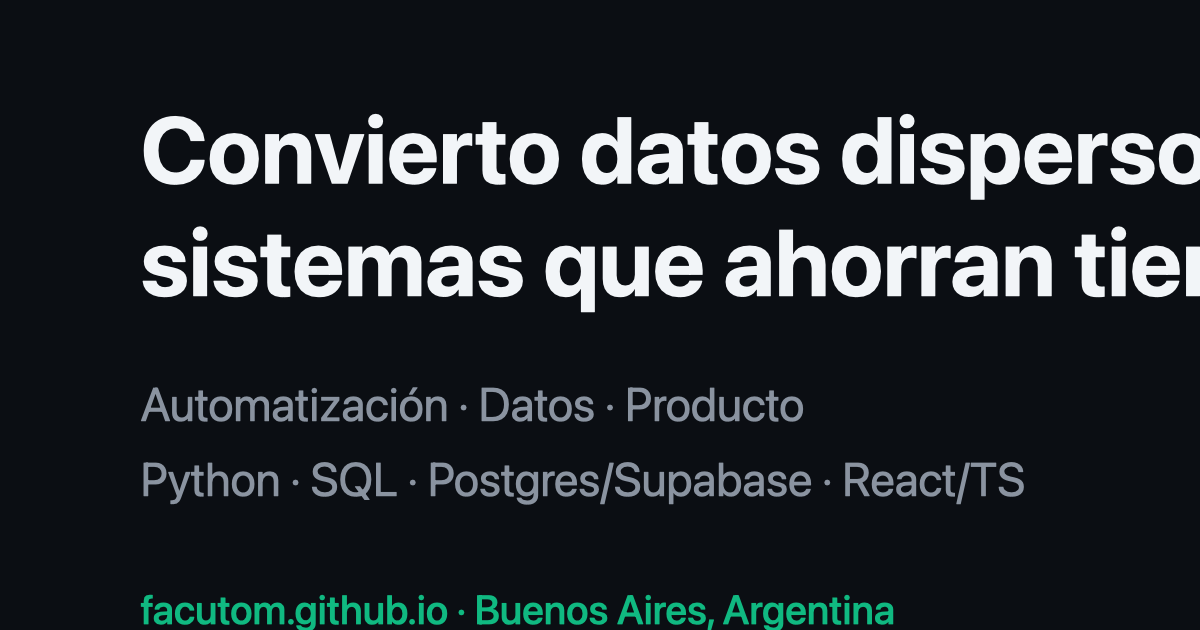
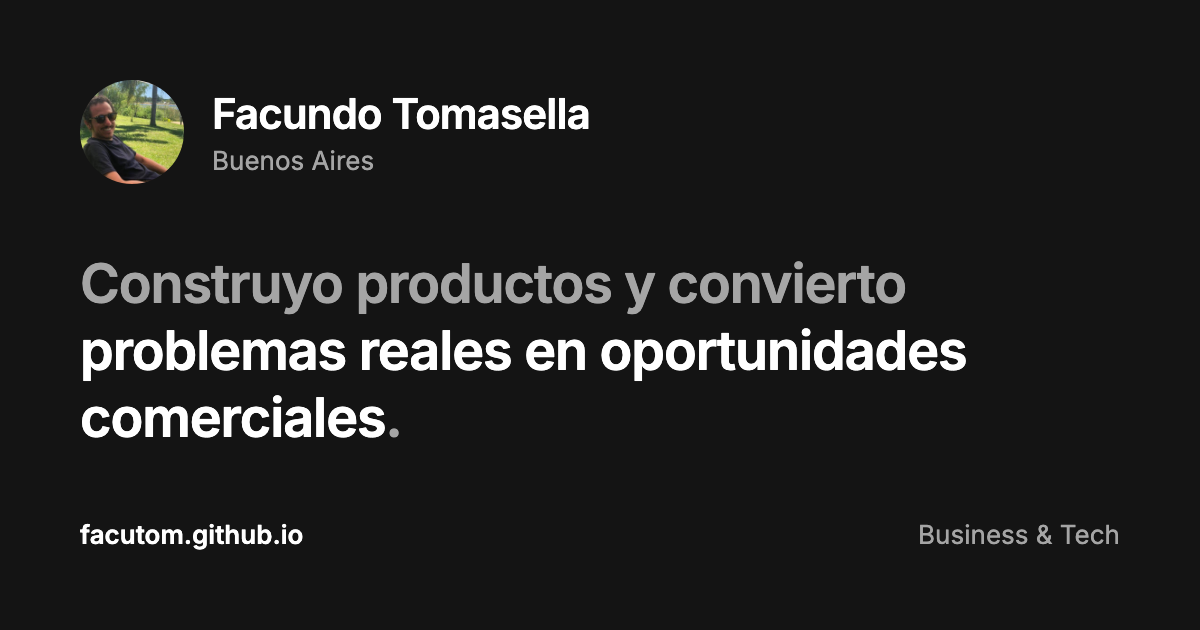
feat(seo): nueva imagen OG 1200x630 acorde al diseño + meta og:image/twitter:image

diff --git a/scripts/og-image.html b/scripts/og-image.html
@@ -1,0 +1,45 @@
+<!DOCTYPE html>
+<html lang="es">
+<head>
+  <meta charset="utf-8"/>
+  <link rel="preconnect" href="https://fonts.googleapis.com"/>
+  <link rel="preconnect" href="https://fonts.gstatic.com" crossorigin/>
+  <link href="https://fonts.googleapis.com/css2?family=Inter:wght@400;500;600;700&display=swap" rel="stylesheet"/>
+  <style>
+    * { margin: 0; padding: 0; box-sizing: border-box; }
+    html, body { width: 1200px; height: 630px; }
+    body {
+      font-family: 'Inter', system-ui, -apple-system, sans-serif;
+      background: #141414;
+      color: #a5a5a5;
+      padding: 80px;
+      display: flex;
+      flex-direction: column;
+      justify-content: space-between;
+      overflow: hidden;
+    }
+    .top { display: flex; align-items: center; gap: 28px; }
+    .avatar { width: 104px; height: 104px; border-radius: 50%; object-fit: cover; }
+    .name { color: #ffffff; font-size: 42px; font-weight: 600; letter-spacing: -0.02em; }
+    .loc { font-size: 26px; margin-top: 6px; }
+    .tagline { font-size: 54px; font-weight: 600; line-height: 1.24; letter-spacing: -0.02em; max-width: 1010px; }
+    .tagline b { color: #ffffff; font-weight: 600; }
+    .bottom { display: flex; align-items: center; justify-content: space-between; font-size: 26px; }
+    .url { color: #ffffff; font-weight: 600; }
+  </style>
+</head>
+<body>
+  <div class="top">
+    <img class="avatar" src="https://github.com/facutom.png" alt=""/>
+    <div>
+      <div class="name">Facundo Tomasella</div>
+      <div class="loc">Buenos Aires</div>
+    </div>
+  </div>
+  <div class="tagline">Construyo productos y convierto <b>problemas reales en oportunidades comerciales</b>.</div>
+  <div class="bottom">
+    <span class="url">facutom.github.io</span>
+    <span>Business &amp; Tech</span>
+  </div>
+</body>
+</html>

diff --git a/index.html b/index.html
@@ -14,6 +14,11 @@
   <link rel="canonical" href="https://facutom.github.io/"/>
   <meta property="og:url" content="https://facutom.github.io/"/>
   <meta property="og:site_name" content="Facundo Tomasella"/>
+  <meta property="og:image" content="https://facutom.github.io/assets/og-image.png"/>
+  <meta property="og:image:width" content="1200"/>
+  <meta property="og:image:height" content="630"/>
+  <meta property="og:image:alt" content="Facundo Tomasella — Business & Tech"/>
+  <meta name="twitter:image" content="https://facutom.github.io/assets/og-image.png"/>
   <meta name="twitter:card" content="summary_large_image"/>
   <meta name="twitter:title" content="Facundo Tomasella"/>
   <meta name="twitter:description" content="Desarrollo productos, pruebo ideas y busco formas de convertir problemas reales en oportunidades comerciales. Comparto lo que construyo, lo que aprendo y lo que funciona en el camino."/>
